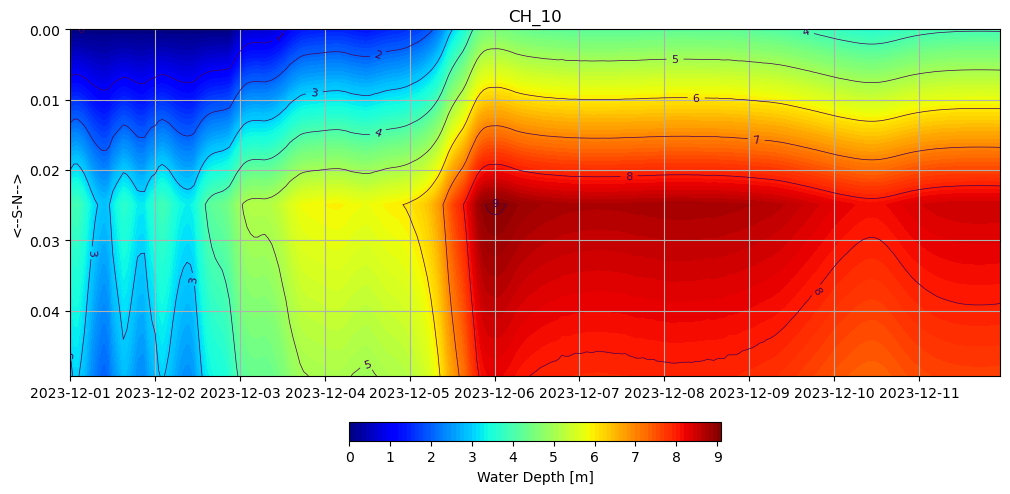
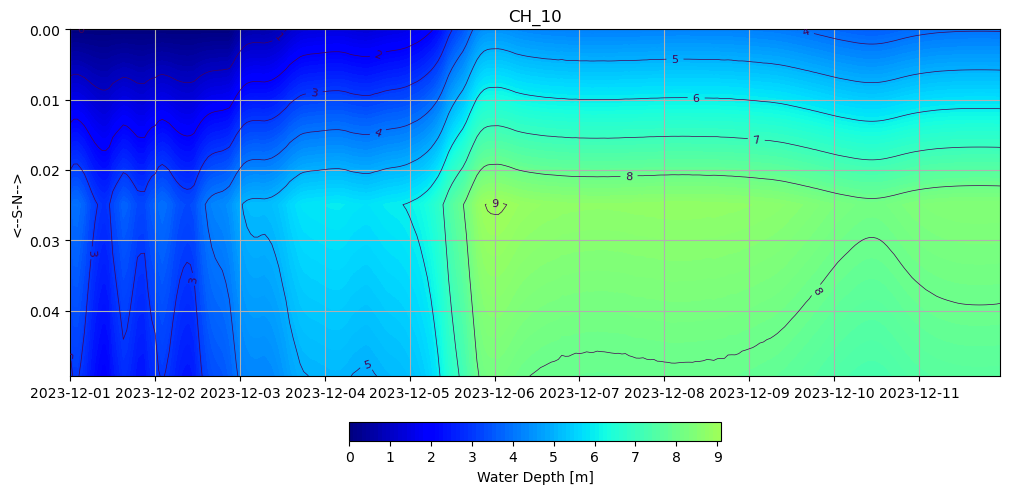
Update weekly log

diff --git a/WeeklyLogs/Log101324_101924.md b/WeeklyLogs/Log101324_101924.md
@@ -19,6 +19,9 @@
 	- Interestingly, discharge drops abruptly right after the peak on late December 05 for transect 11 (can be seen in transect 12 slightly as well)
 	- Discharge at transect 13 follows the Montesano discharge rate until late December 5, where the discharge begins to become underestimated. This shows that water levels have potentially spilled over bank and inundated the floodplain, which can be seen in last week's plots where discharge along the floodplain made up for the difference in discharge.
 - Cumulative discharge shows downstream transects flush larger volumes of water later in the time series (Fig. 4)
+- Cross-section water depth profiles for transects 1-13 (Fig. 5-17)
+	- From transects 1-9, we can see the widening and narrowing of the channel due to the tidal cycle prior to December 5
+	- 
 
 ![Transect map](../Figures/101724meeting/Job21399902_TMDv4_transectmap.png)<br>
 Figure 1: Map of max inundation (Dec. 07, 2023 T06:00) with cross sectional transects (13).
